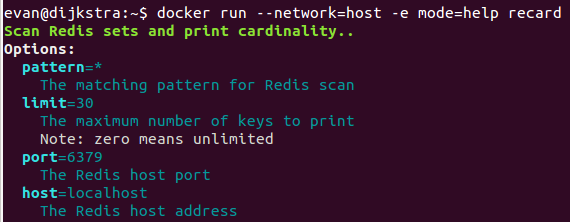
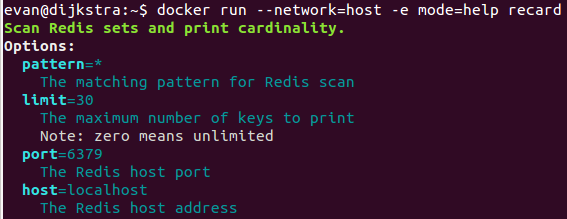
initial

Changed region(s): [[0.03, 0.274, 0.6296, 0.9863], [0.0, 0.0, 0.9894, 0.1918], [0.0, 0.1918, 0.1499, 0.2466]]

diff --git a/README.md b/README.md
@@ -2,7 +2,7 @@
 
 Scan Redis sets and print cardinality.
 
-<img src='https://raw.githubusercontent.com/evanx/recard/master/docs/readme/images/main.png'>
+<img src='https://raw.githubusercontent.com/evanx/recard/master/docs/readme/images/main2.png'>
 
 
 ## Installation
